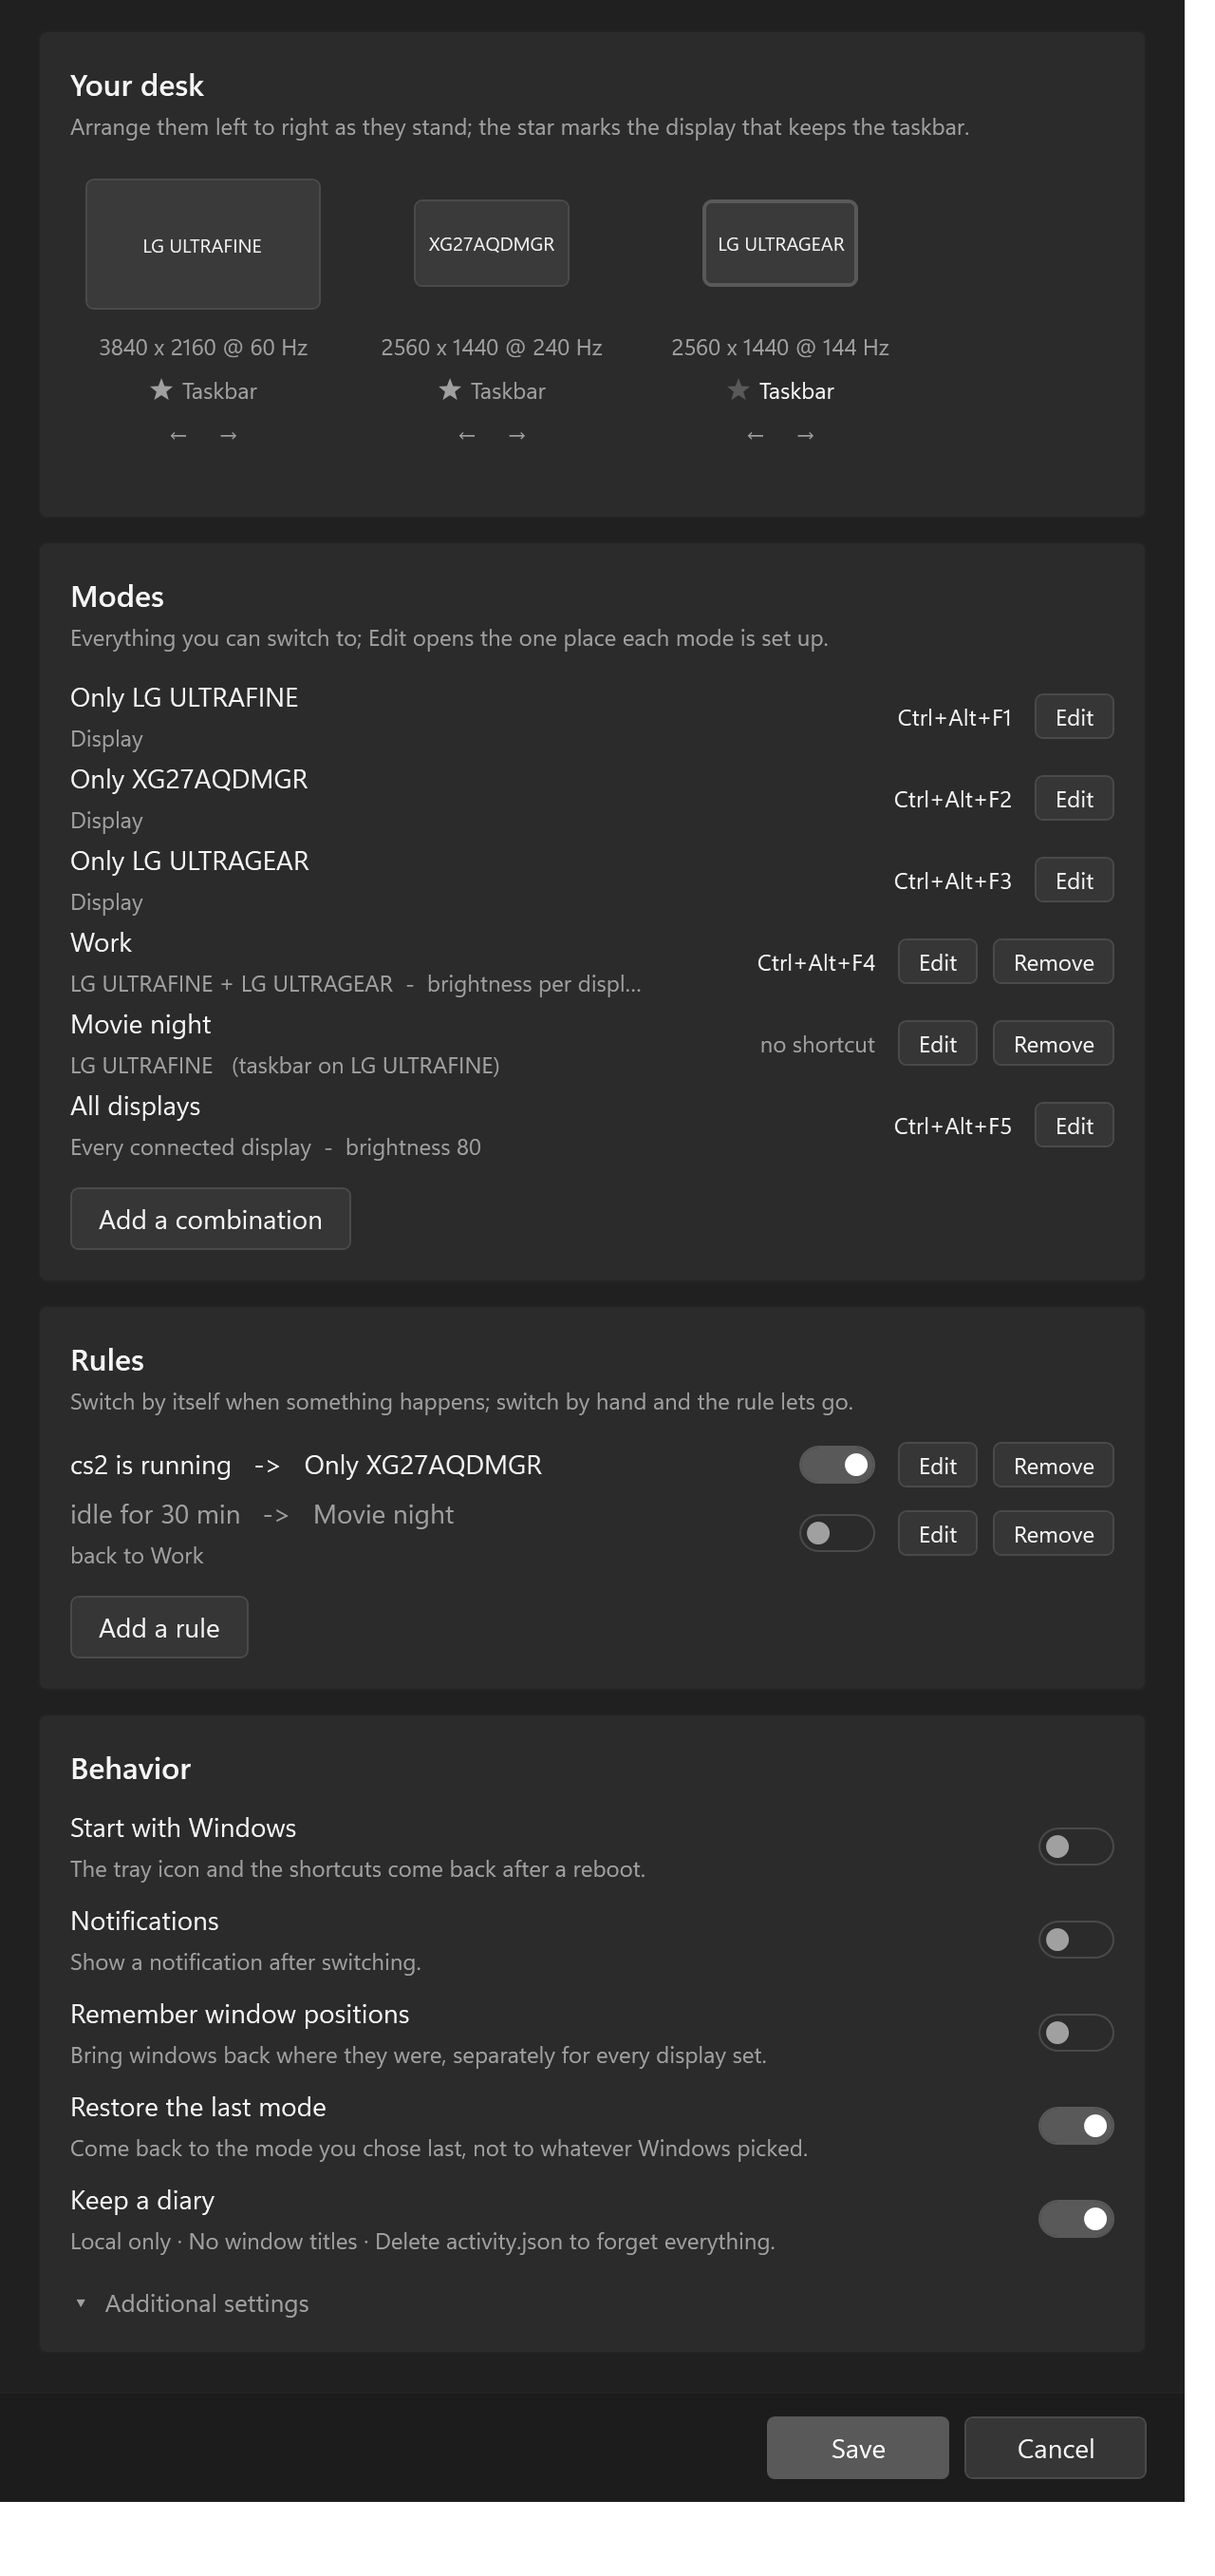
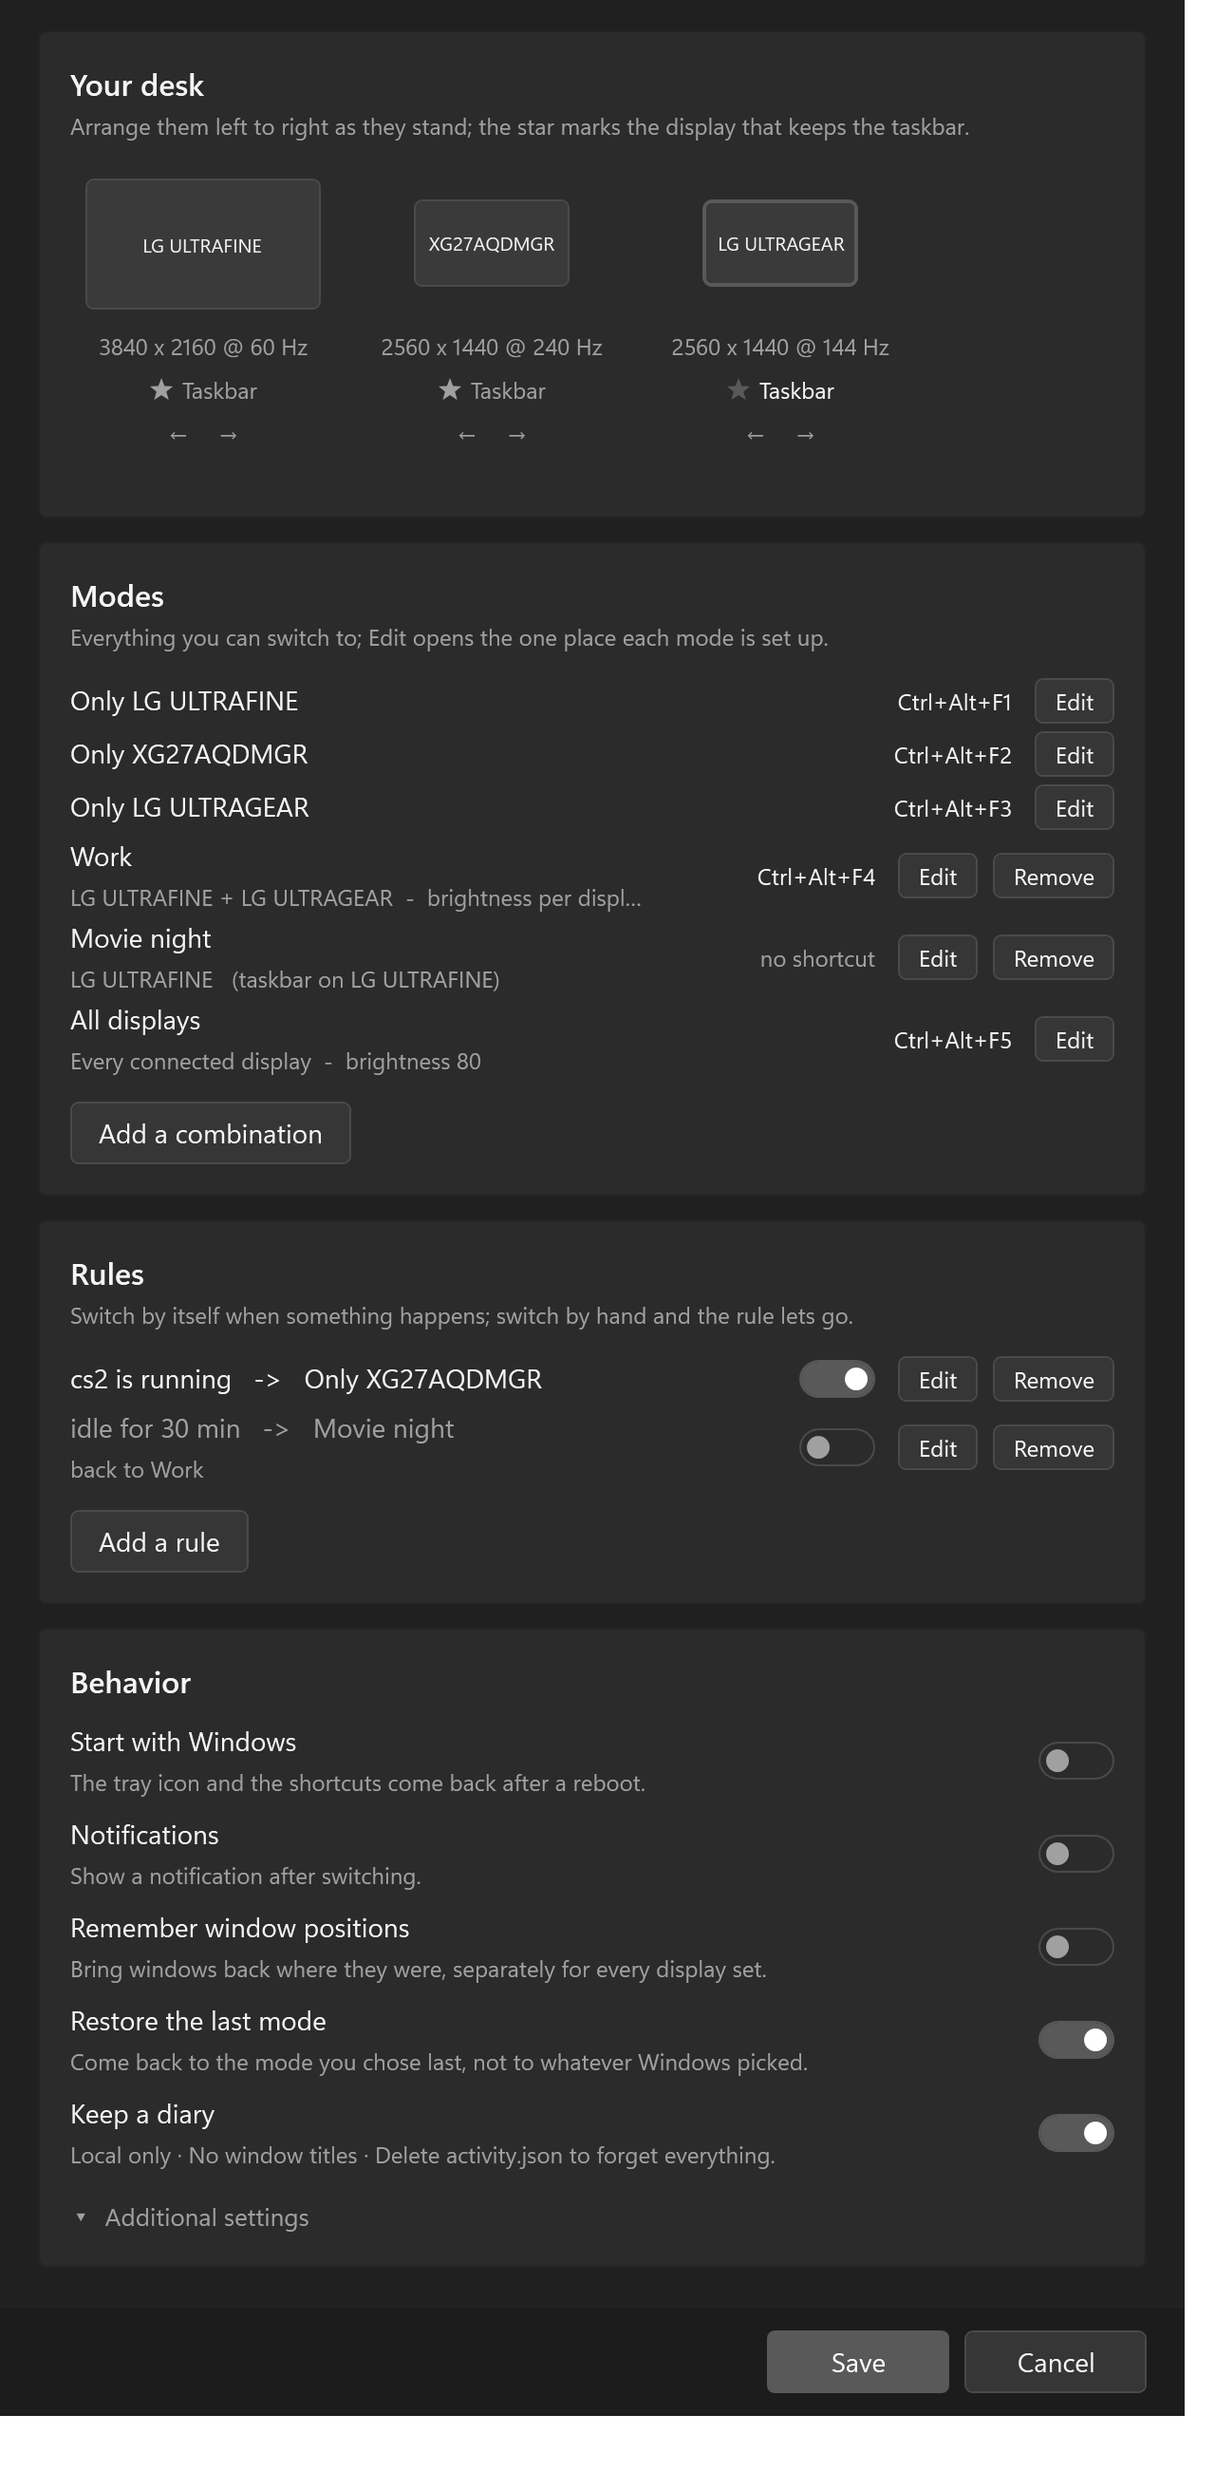
A display's row stops saying "Display" under a title that already said it
The caption under a mode's name is now only ever about settings, never about what
kind of mode it is. "Only LG ULTRAFINE" needed no second line reading "Display",
any more than a combination needed one opening with "Combination": the title says
the first and the Remove button says the second.

So a display's row is one line high until the mode actually has something set on
it, and on a desk of three or four displays that is 15 points each back.

Measured on 1440p against the 1352-point limit: a fresh desk is 1176 now, one
with two combinations 1262, and the fullest case that fits in this window - two
combinations, two rules and something set on every mode - 1311. All three without
a scrollbar; the CHANGELOG numbers from two commits ago are updated to match.

diff --git a/CHANGELOG.md b/CHANGELOG.md
@@ -38,13 +38,16 @@ in the tray menu — that line is the right thing to paste into a bug report.
 - **Additional settings** folds away the four with a right default — the refresh-rate watchdog and
   the three "when Windows rearranges the desk behind my back" answers. They are still saved
   whether the fold is open or shut.
-- With the two together the window fits a 1440p screen without a scrollbar again, Rules card and
-  all: 1221 points on a fresh desk and 1307 with a couple of combinations, against a 1352 limit.
-- **A combination's row no longer says "Combination".** The row stands under the Modes heading,
-  and a combination is the only kind with a **Remove** button beside it — the word said nothing
-  the row did not already show, while taking 87 points of a caption that has about 300. That
-  room now goes to what cannot be seen any other way: `LG ULTRAFINE + LG ULTRAGEAR  -  brightness
-  per display` where it used to read `Combination  -  LG ULTRAFINE + LG ULTRAGEAR  -  bri…`.
+- Together these fit the window back onto a 1440p screen without a scrollbar, Rules card and all.
+  Measured against a 1352-point limit: 1176 on a fresh desk, 1262 with a couple of combinations,
+  and 1311 for a desk with two combinations, two rules and something set on every mode.
+- **A mode's row says nothing about what kind of mode it is.** "Only LG ULTRAFINE" had a second
+  line under it reading "Display"; a combination's said "Combination" before listing anything.
+  Both repeated what the row already showed — the title in one case, the **Remove** button in the
+  other. A display's row is one line high now unless the mode actually has something set on it,
+  and a combination's caption keeps the 87 points the word was taking:
+  `LG ULTRAFINE + LG ULTRAGEAR  -  brightness per display` where it read
+  `Combination  -  LG ULTRAFINE + LG ULTRAGEAR  -  bri…`.
 - **The mode editor folds too.** What a mode *is* stays in sight — its name, its displays, the
   taskbar and the shortcut. What it does to the hardware — brightness, contrast, the playback
   device and the commands — sits behind **Brightness, sound and commands**, which halves the

diff --git a/AGENTS.md b/AGENTS.md
@@ -72,7 +72,7 @@ new file of the program ships by itself, a new file for us has to be named there
 | File | Lines | Go here for |
 | --- | --- | --- |
 | `DisplayCore.ps1` | 5222 | the engine: state, switching, modes, brightness, rules, hooks. Embedded C# 810-2042, the compiled-assembly cache 2044-2153, `Switch-DisplayMode` at 3990 |
-| `SettingsDialog.ps1` | 4611 | all WPF: the Settings window, the mode editor, the rule editor, the timer popup and the diary window. Building a window is separated from showing it so tests can build one and never show it |
+| `SettingsDialog.ps1` | 4616 | all WPF: the Settings window, the mode editor, the rule editor, the timer popup and the diary window. Building a window is separated from showing it so tests can build one and never show it |
 | `Displays.ps1` | 1508 | the app: tray icon, menu, hotkey registration, watchdogs, timers |
 | `Activity.ps1` | 583 | the diary, the report both the window and the page are built from, and that page |
 | `Set-Display.ps1` | 218 | the command line: argument parsing and printing, no logic |
@@ -82,7 +82,7 @@ new file of the program ships by itself, a new file for us has to be named there
 | `tools/check.ps1` | 234 | the four gates, and the only answer to "am I done" |
 | `tools/trace-displays.ps1` | 132 | dev tool: our log and Windows' `Kernel-PnP` 1010 in one timeline. The Windows side is the only place a display leaving the bus by itself is written down |
 | `tools/pack.ps1` | 211 | the release archive: what the user downloads, built from `git ls-files` |
-| `tests/` | — | the runner (107), the framework (79), the fakes (131), 39 files of cases (6369) and `live.ps1` (252) |
+| `tests/` | — | the runner (107), the framework (79), the fakes (131), 39 files of cases (6393) and `live.ps1` (252) |
 | `docs/notes.md` | 2214 | the engineering diary: what Windows actually does, measured, day by day |
 
 Line counts are signposts, not contracts — they drift. `docs/notes.md` is the place
